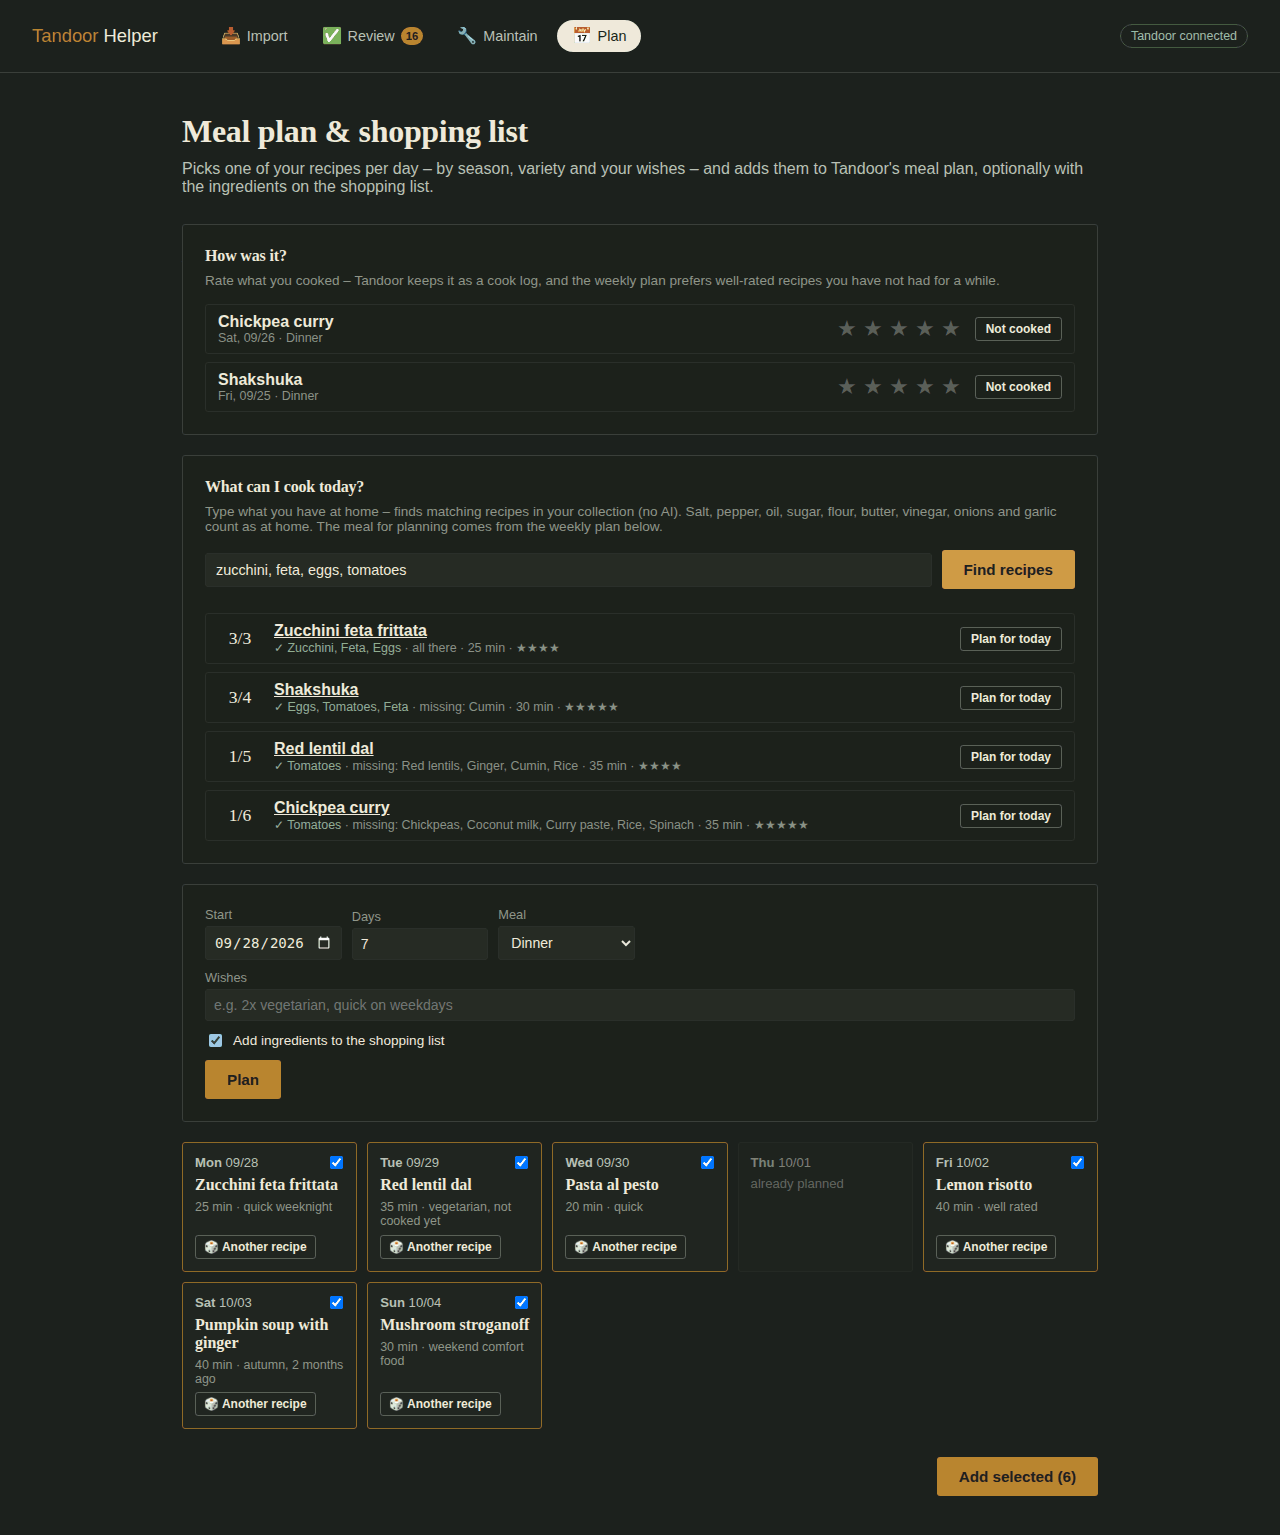
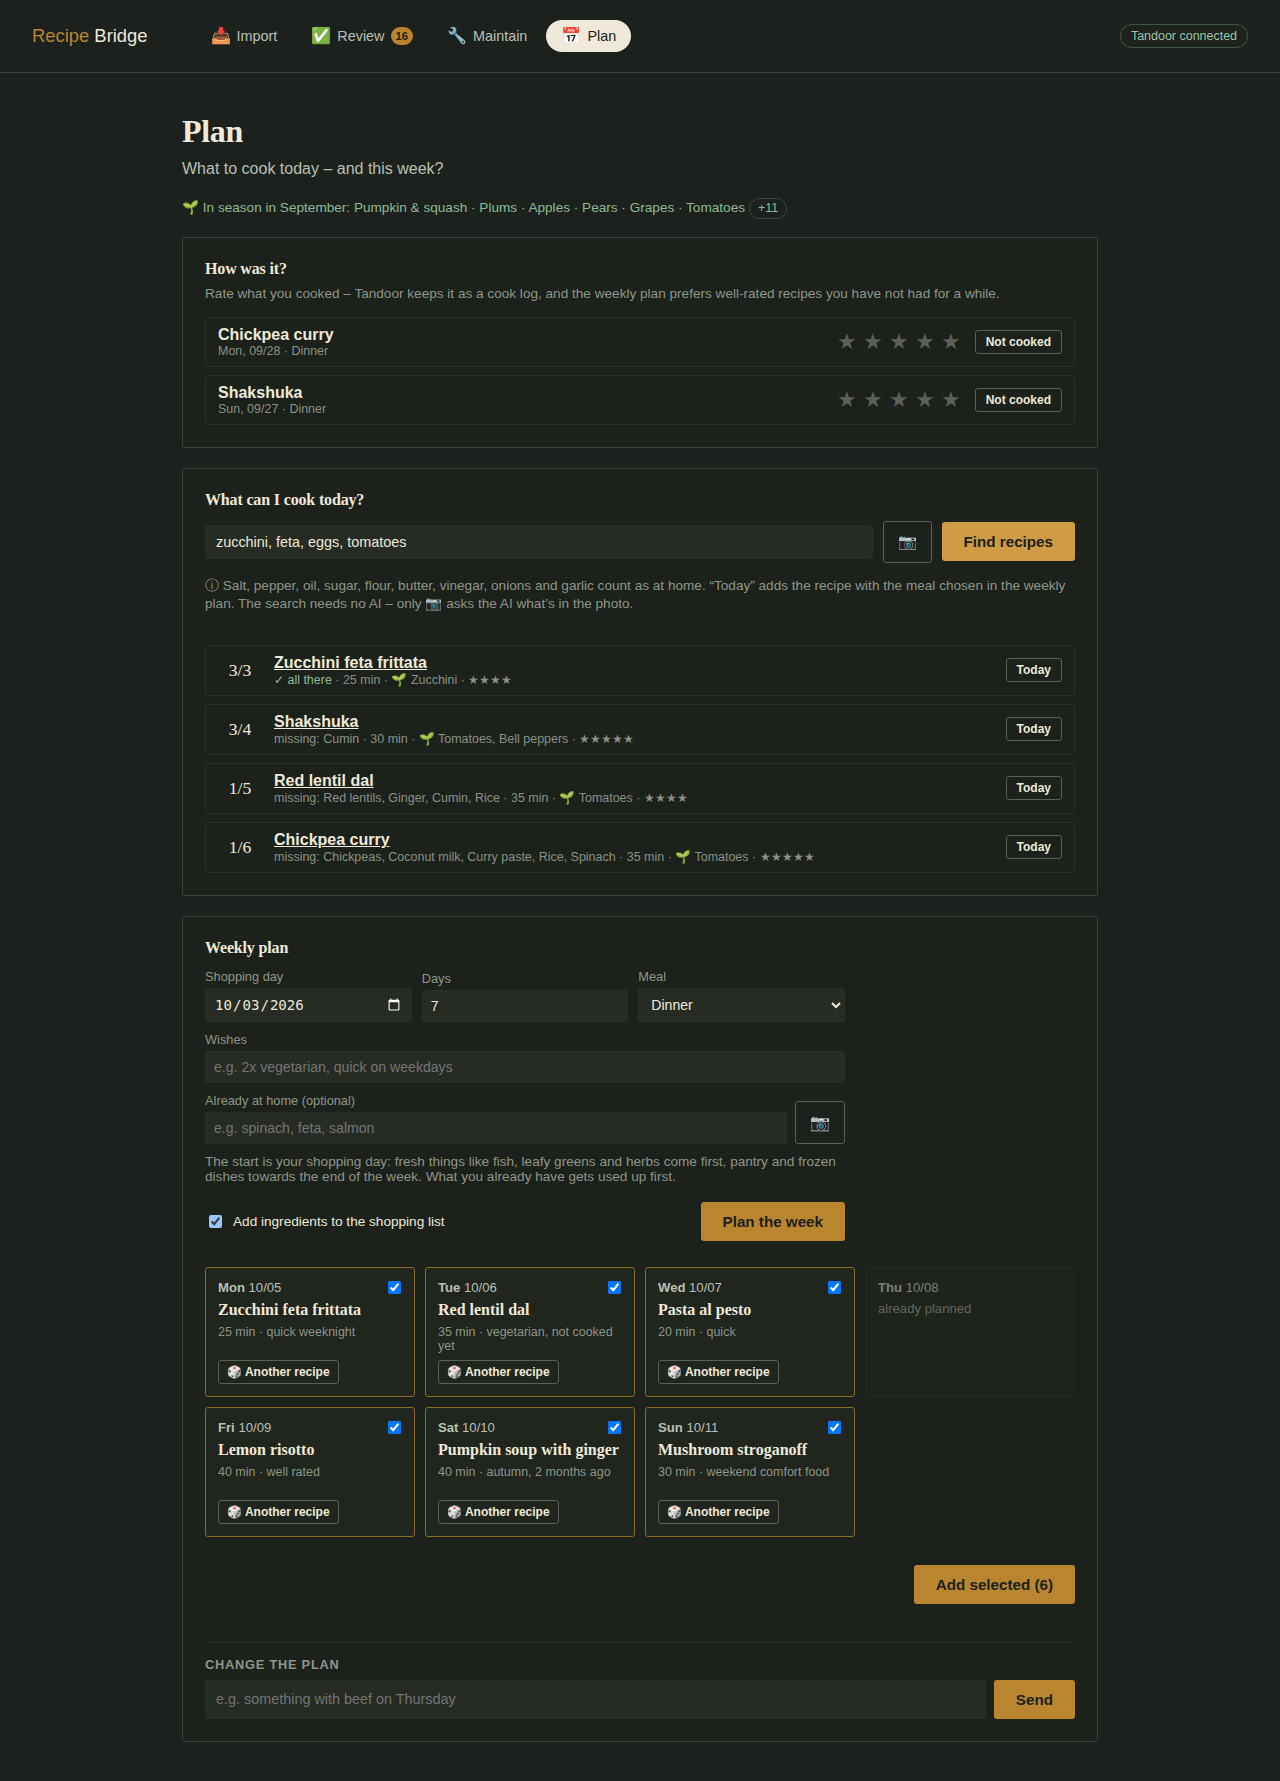
Prepare the 1.0.0 beta: new screenshots, README without migration, version
- Screenshots taken again with the demo instance (new name, current UI:
  import, website scan, review, inbox, maintain, plan with the chat, phone)
- README: beta note instead of the "formerly Tandoor Helper" note, the
  migration section removed, photo improvement and cookbook choice in the
  review described
- The image carries its version (APP_VERSION from the release tag); the app
  shows it in "Automation & budget" and as the name's tooltip
- CHANGELOG.md with the notes for 1.0.0-beta.1

Claude-Session: https://claude.ai/code/session_01KV2EcVQ4Nu6sQEhu8m5MK2

diff --git a/backend/app/static/index.html b/backend/app/static/index.html
@@ -184,6 +184,7 @@
           <div class="settings-actions">
             <button id="settings-save" class="btn" type="button" data-i18n="settingsSave">Save</button>
             <span id="settings-saved" class="settings-hint"></span>
+            <span id="app-version" class="settings-hint app-version"></span>
           </div>
         </details>
       </div>

diff --git a/backend/app/static/app.js b/backend/app/static/app.js
@@ -3054,6 +3054,9 @@ if ('serviceWorker' in navigator) {
       elm.textContent = t('cookedHintMealie');
     });
   }
+  const version = `Recipe Bridge ${APP_CONFIG.version || 'dev'}`;
+  el('brand-link').title = version;
+  el('app-version').textContent = version;
   initEnhancePhotos();
   await tryRestoreJobFromUrl();
   showArea('import');

diff --git a/backend/app/static/style.css b/backend/app/static/style.css
@@ -1197,3 +1197,5 @@ a { color: inherit; }
   .ingredient-row .ing-original { grid-area: orig; margin-top: -2px; }
 }
 .ct-photo-btn { cursor: pointer; padding-left: 14px; padding-right: 14px; }
+
+.app-version { margin-left: auto; opacity: 0.7; }

diff --git a/backend/app/main.py b/backend/app/main.py
@@ -1539,6 +1539,7 @@ async def get_config():
         "supported_extensions": sorted(PDF_EXTENSIONS | SUPPORTED_EPUB_EXTENSIONS | SUPPORTED_IMAGE_EXTENSIONS),
         "image_extensions": sorted(SUPPORTED_IMAGE_EXTENSIONS),
         "image_gen_available": image_gen.is_configured(),
+        "version": settings.app_version,
         "auth_enabled": auth.enabled(),
         "notify_channels": notify.channels(),
         "watch_dir": settings.watch_dir if settings.watch_dir and os.path.isdir(settings.watch_dir) else None,

diff --git a/backend/app/config.py b/backend/app/config.py
@@ -75,6 +75,7 @@ class Settings(BaseSettings):
 
     # App
     data_dir: str = "/app/data"
+    app_version: str = "dev"             # set in the Docker image (APP_VERSION)
     max_upload_mb: int = 100
 
     model_config = SettingsConfigDict(env_file=".env", extra="ignore")

diff --git a/README.md b/README.md
@@ -10,8 +10,9 @@ nutrition, unit conversions …) and **helps you plan meals** from your own
 recipes. It never changes anything behind your back: every change is shown
 as a suggestion first, and with Tandoor applied changes can be undone.
 
-*Formerly "Tandoor Helper" – see [Updating](#updating) if you're coming from
-it.*
+> **Beta** – version 1.0 is feature-complete but hasn't run on many
+> installations yet; the Mealie support in particular is new. Please report
+> problems as [issues](https://github.com/carllvin/recipe-bridge/issues).
 
 <p align="center">
   <img src="screenshots/import.png" alt="Import page with the photo collector" width="85%">
@@ -111,10 +112,11 @@ review covers everything, so nothing has to be checked again afterwards:
   ✓ exists · ↺ matched to an existing entry ("onions" → "Onion") · new. A
   matched entry shows what was read below it ("read as: onions").
 - Recipes that probably exist already are flagged (exact matches are
-  deselected), and missing photos can optionally be generated by an image
-  AI.
-- **Import** puts the selected recipes into a cookbook (created if needed;
-  with Mealie a category); failed ones can be retried on their own and an
+  deselected). With an image AI, missing photos can be generated and the
+  recipe's own photos improved (light, colors, sharpness – the dish stays
+  as it is), one by one or for all recipes while importing.
+- **Import** puts the selected recipes into a cookbook – pick an existing
+  one or create a new one (with Mealie a category); failed ones can be retried on their own and an
   import can be undone. With Tandoor, the new ingredients then get their
   details (plural, nutrition, supermarket category, gram conversions) filled
   in automatically – shown under ✅ Review → *Recently applied*, with undo.
@@ -309,29 +311,6 @@ Your data (settings, open suggestions, undo history …) lives in a Docker
 volume and survives updates – see [Data and backups](#data-and-backups).
 If you build it yourself: `git pull` and the build command above.
 
-### Coming from "Tandoor Helper"
-
-The app, its container, Compose service and data volume were renamed, and
-the app now comes as a ready-made image. In your existing folder (the old
-clone):
-
-```bash
-docker compose down          # before pulling: stops the old container
-git pull                     # the new docker-compose.yml uses the image and your .env
-docker volume ls | grep tandoor_helper_data   # the old volume, usually tandoor-helper_tandoor_helper_data
-docker volume create recipe_bridge_data
-docker run --rm -v tandoor-helper_tandoor_helper_data:/from -v recipe_bridge_data:/to alpine cp -a /from/. /to/
-docker compose pull
-docker compose up -d --remove-orphans
-```
-
-The last steps move your settings, open suggestions and history over once.
-Once everything works, the old volume can be removed
-(`docker volume rm tandoor-helper_tandoor_helper_data`). If you changed the
-repository's remote: `git remote set-url origin
-https://github.com/carllvin/recipe-bridge` (GitHub also redirects the old
-address). An installed phone app may keep the old name until reinstalled.
-
 ## Configuration
 
 ### In the app
@@ -363,7 +342,7 @@ Maintain page and stored in the data volume – no restart needed.
 | `CUSTOM_INSTRUCTIONS` | *(empty)* | Your own rules for the extraction, see below |
 | `OCR_LANGUAGES` | `eng` | Tesseract languages, e.g. `eng+deu` (installed: eng, deu, fra, ita, spa) |
 | `FORCE_OCR` | `false` | OCR every PDF page, even ones with a text layer (for garbled PDFs) |
-| `IMAGE_GEN_ENABLED` / `IMAGE_GEN_PROVIDER` | `false` / `openai` | Generate a photo for recipes without one (`openai` or `gemini`; costs money per image) |
+| `IMAGE_GEN_ENABLED` / `IMAGE_GEN_PROVIDER` | `false` / `openai` | Generate photos for recipes without one and improve existing ones (`openai` or `gemini`; costs money per image) |
 | `AUTO_PROCESS_INTERVAL_HOURS` | `0` (off) | Run *Process new recipes* every N hours |
 | `TZ` | `UTC` | Time zone for automatic runs and the monthly budget |
 | `JOB_RETENTION_HOURS` | `48` | Delete imports (and their uploaded files) after this many hours |

diff --git a/CHANGELOG.md b/CHANGELOG.md
@@ -1,0 +1,44 @@
+# Changelog
+
+## 1.0.0-beta.1
+
+The first release of **Recipe Bridge**, as a ready-made Docker image
+(`ghcr.io/carllvin/recipe-bridge:1.0.0-beta.1`, amd64 and arm64). See the
+[README](README.md) for setup.
+
+**Import** – into Tandoor or Mealie (`RECIPE_MANAGER`)
+- Cookbooks (PDF, EPUB, Word), photos of cookbook pages and handwritten
+  cards, single links, link lists, browser bookmarks, pasted text
+- Website scan: finds the recipes of a food blog via its sitemap or links
+  (1–4 levels deep), without AI
+- Share from the phone, bookmark button, watched folder
+- Translation into your language and metric units on the way
+- Review before import: every field editable, ingredients assigned to steps,
+  ingredients/units/tags matched against your collection, duplicates
+  flagged, existing or new cookbook, photos generated or improved by an
+  image AI
+
+**Review** – one inbox for all suggestions, applied in the background;
+failed ones can be retried, applied ones undone (Tandoor)
+
+**Maintain**
+- Overview of what's left to do (duplicates, missing nutrition, categories
+  and conversions, untranslated or unstructured recipes, missing season,
+  tags, servings or photo, unused entries, tags outside a group)
+- A tool per tile, full-collection reviews, processing of new recipes
+- Automatic maintenance on a schedule, monthly AI budget, notifications
+  (ntfy, Telegram)
+
+**Plan**
+- Weekly plan starting on the shopping day: perishable dishes first,
+  pantry dishes last, what's at home gets used up; change it in a chat
+- What can I cook today? – by typed ingredients or a fridge photo
+- How was it? – ratings feed back into the plan
+
+**Also** – AI from Anthropic, OpenAI or Google; UI in German, English,
+French, Italian and Spanish; optional password
+
+**Known gaps** – tested against simulated Tandoor and Mealie APIs and
+simulated AI answers; real-world use will show details to fix. With Mealie,
+nutrition, supermarket categories, unit conversions and tag groups aren't
+available and changes can't be undone from the app.
